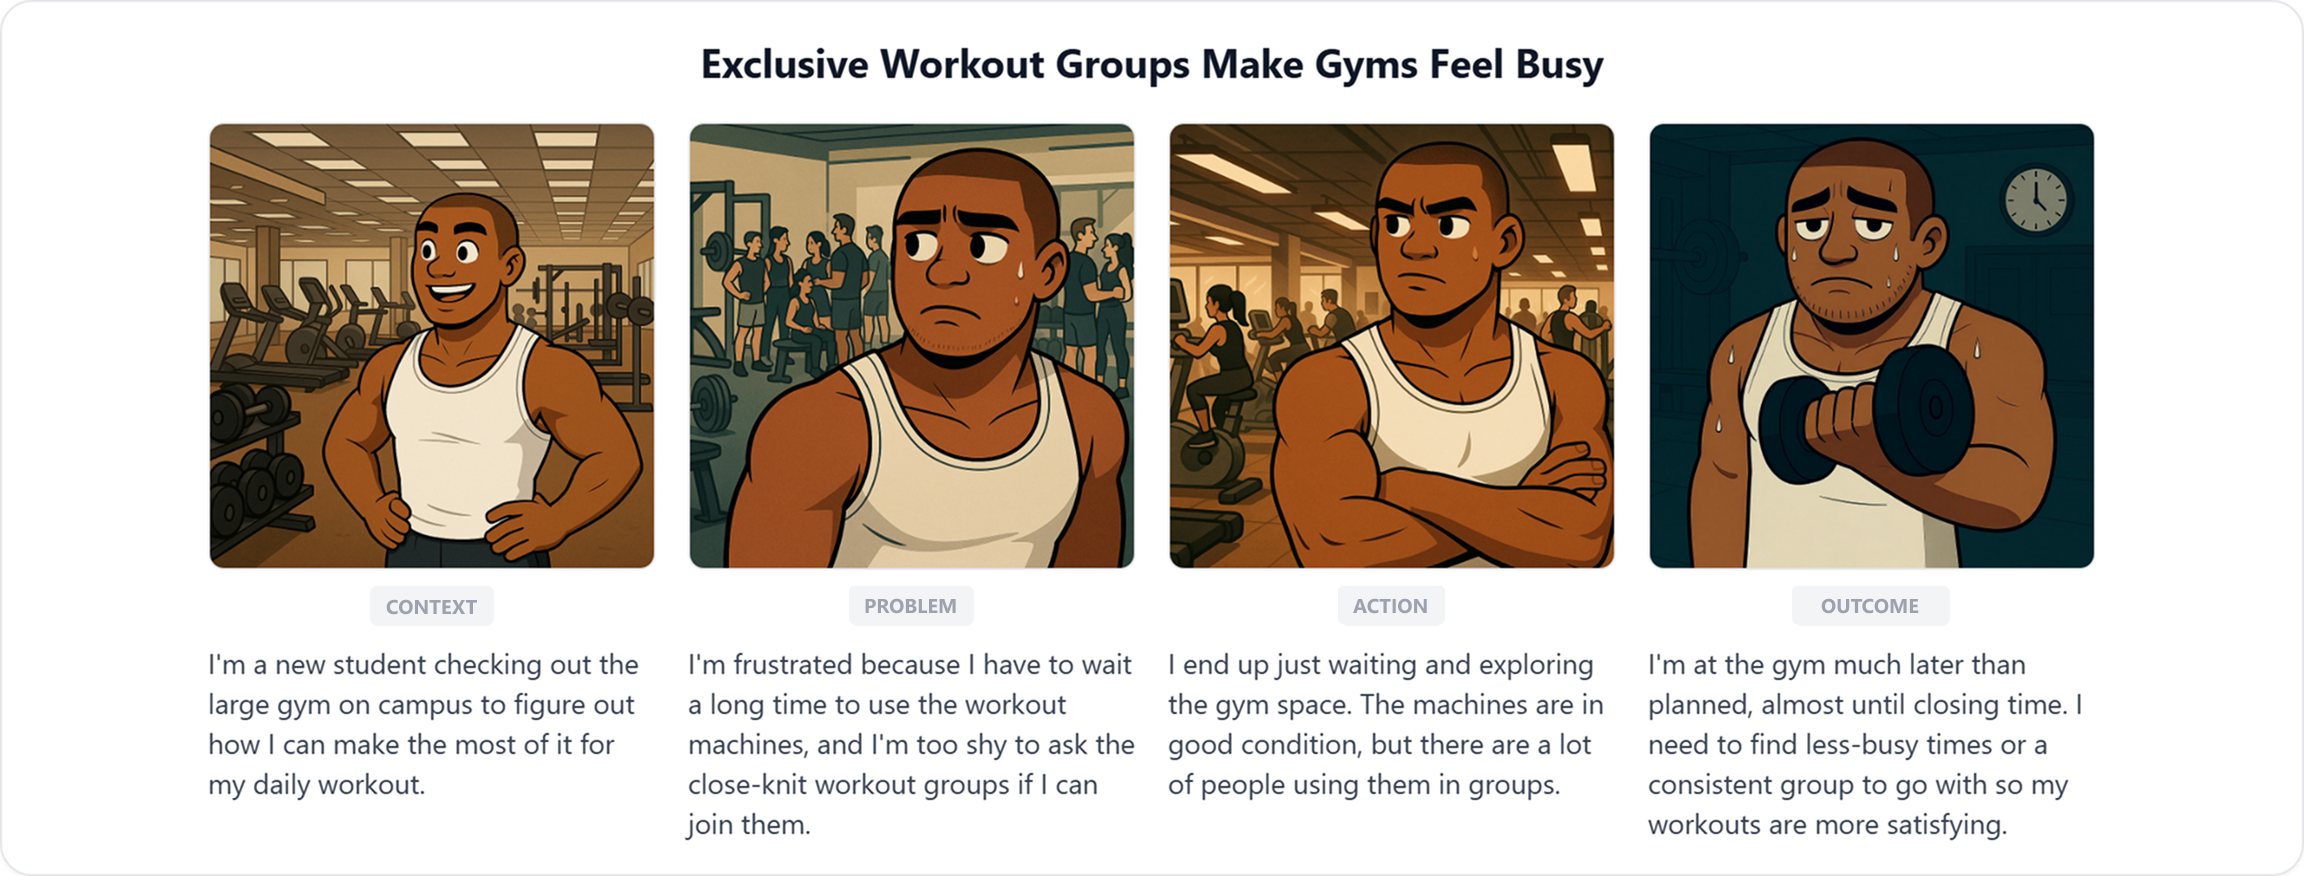
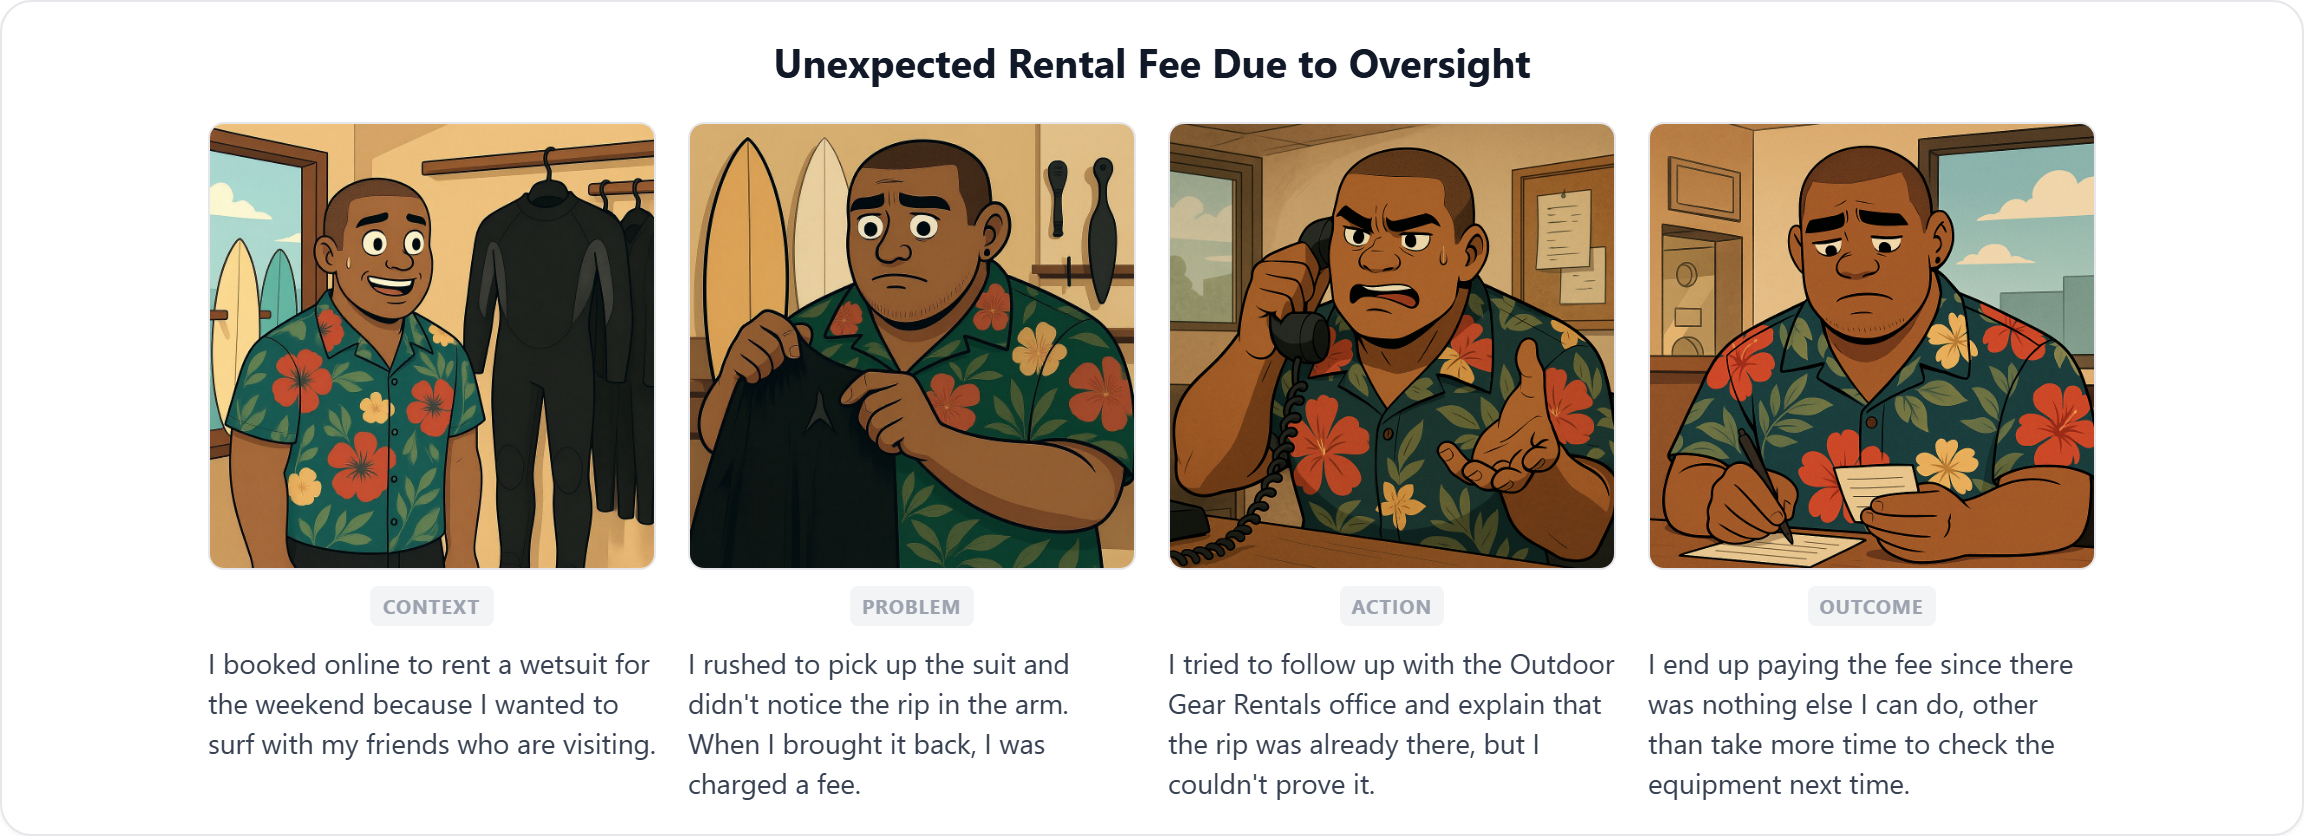
changed examples, adjusting context copy, removed pre-summary input

diff --git a/src/components/StudyOverviewPage.tsx b/src/components/StudyOverviewPage.tsx
@@ -7,26 +7,23 @@ import { PriorExperienceOption } from './onboarding/PriorExperienceOption';
 import { ENABLE_ADMIN_SETUP } from '@/lib/featureFlags';
 
 type StudyOverviewPageProps = {
-  showExperienceDescription?: boolean;
+  flow?: 'user' | 'designer';
 };
 
 export function StudyOverviewPage({
-  showExperienceDescription = true
+  flow = 'user'
 }: StudyOverviewPageProps) {
   const designTopic = useStore((s) => s.designTopic);
   const priorExperience = useStore((s) => s.priorExperience);
   const setPriorExperience = useStore((s) => s.setPriorExperience);
-  const experienceDescription = useStore((s) => s.experienceDescription);
-  const setExperienceDescription = useStore((s) => s.setExperienceDescription);
   const setHasCompletedOverview = useStore((s) => s.setHasCompletedOverview);
   const setAdminSetupOpen = useStore((s) => s.setAdminSetupOpen);
 
   const copy = STUDY_OVERVIEW_COPY;
   const topicLabel =
     designTopic?.trim() || copy.topic.defaultTopic;
-  const canContinue =
-    priorExperience !== null &&
-    (!showExperienceDescription || experienceDescription.trim().length > 0);
+  const canContinue = priorExperience !== null;
+  const postParagraphs = copy.intro.post_paragraphs[flow];
 
   const handleContinue = () => {
     if (!canContinue) return;
@@ -35,8 +32,7 @@ export function StudyOverviewPage({
       type: 'STUDY_OVERVIEW_COMPLETE',
       count: 1,
       data: {
-        priorExperience,
-        experienceDescription: experienceDescription.trim()
+        priorExperience
       }
     });
     setHasCompletedOverview(true);
@@ -84,14 +80,14 @@ export function StudyOverviewPage({
 
           <div className="mt-5">
             <img
-              src={`${import.meta.env.BASE_URL}storyboards/example/example_storyboard_1.jpg`}
+              src={`${import.meta.env.BASE_URL}storyboards/example/example_storyboard.jpg`}
               alt="Example storyboard with context, problem, action, and outcome panels"
               className="w-full rounded-2xl ring-1 ring-slate-200/60"
             />
           </div>
 
           <div className="mt-10 space-y-3">
-            {copy.intro.post_paragraphs.map((paragraph) => (
+            {postParagraphs.map((paragraph) => (
               <p
                 key={paragraph}
                 className="leading-relaxed"
@@ -134,28 +130,6 @@ export function StudyOverviewPage({
             </div>
           </fieldset>
 
-          {showExperienceDescription && (
-            <div className="mt-6">
-              <label
-                htmlFor="study-overview-experience-description"
-                className="block text-base font-semibold text-slate-900 mb-2"
-              >
-                {copy.experienceDescription.label}
-                <span className="text-blue-600 ml-1" aria-hidden>
-                  *
-                </span>
-              </label>
-              <textarea
-                id="study-overview-experience-description"
-                value={experienceDescription}
-                onChange={(e) => setExperienceDescription(e.target.value)}
-                placeholder={copy.experienceDescription.placeholder}
-                rows={4}
-                className="w-full px-4 py-3 border border-gray-300 rounded-xl focus:ring-2 focus:ring-blue-500 focus:border-transparent outline-none resize-y text-sm"
-              />
-            </div>
-          )}
-
           <button
             type="button"
             onClick={handleContinue}
@@ -166,11 +140,7 @@ export function StudyOverviewPage({
           </button>
           {!canContinue && (
             <p className="mt-3 text-center text-xs text-slate-500">
-              {priorExperience === null
-                ? showExperienceDescription
-                  ? copy.continueDisabledHint
-                  : copy.continueDisabledHintAnswerOnly
-                : copy.experienceDescription.requiredHint}
+              {copy.continueDisabledHint}
             </p>
           )}
 

diff --git a/src/components/DesignerFlow.tsx b/src/components/DesignerFlow.tsx
@@ -4,7 +4,6 @@ import type { DesignerStoryboard } from '@/data/designerStoryboards';
 import type { FrameOutline } from '@/types';
 import { StudyOverviewPage } from './StudyOverviewPage';
 import { DesignerVariantPicker } from './DesignerVariantPicker';
-import { DesignerScenarioDescriptionPage } from './DesignerScenarioDescriptionPage';
 import { DesignerStoryboardResponsePage } from './DesignerStoryboardResponsePage';
 import { PostStoryboardSurveyPage } from './PostStoryboardSurveyPage';
 import { EnlargeableStoryboardImage } from './EnlargeableStoryboardImage';
@@ -14,7 +13,7 @@ import {
   getDesignerFrameResponseQuestions
 } from '@/types/designerResponseQuestionnaire';
 
-type DesignerPhase = 'select' | 'describe' | 'respond' | 'survey';
+type DesignerPhase = 'select' | 'respond' | 'survey';
 
 type DesignerFlowProps = {
   onStartOver: () => void;
@@ -60,8 +59,6 @@ function StoryboardPreview({
 export function DesignerFlow({ onStartOver }: DesignerFlowProps) {
   const hasCompletedOverview = useStore((s) => s.hasCompletedOverview);
   const addStudyEvent = useStore((s) => s.addStudyEvent);
-  const experienceDescription = useStore((s) => s.experienceDescription);
-  const setExperienceDescription = useStore((s) => s.setExperienceDescription);
   const selectedStoryboard = useStore((s) =>
     s.designerSelectedVariantId
       ? s
@@ -99,7 +96,7 @@ export function DesignerFlow({ onStartOver }: DesignerFlowProps) {
 
     setRespondFrameIndex(0);
     setAnswers({});
-    setPhase('describe');
+    setPhase('respond');
   };
 
   const handleFrameContinue = (frameAnswers: Record<string, string>) => {
@@ -120,19 +117,8 @@ export function DesignerFlow({ onStartOver }: DesignerFlowProps) {
     setRespondFrameIndex((prev) => prev + 1);
   };
 
-  const handleDescribeContinue = (description: string) => {
-    setExperienceDescription(description);
-    addStudyEvent({
-      initiator: 'user',
-      type: 'DESIGNER_SCENARIO_DESCRIBED',
-      count: 1,
-      data: { experienceDescription: description }
-    });
-    setPhase('respond');
-  };
-
   if (!hasCompletedOverview) {
-    return <StudyOverviewPage showExperienceDescription={false} />;
+    return <StudyOverviewPage flow="designer" />;
   }
 
   const startOverButton = (
@@ -152,19 +138,6 @@ export function DesignerFlow({ onStartOver }: DesignerFlowProps) {
         <div className="fixed inset-0 bg-gray-50 z-50 overflow-y-auto">
           <DesignerVariantPicker onPick={handlePick} />
         </div>
-        {startOverButton}
-      </>
-    );
-  }
-
-  if (phase === 'describe') {
-    return (
-      <>
-        <DesignerScenarioDescriptionPage
-          storyboardPreview={<StoryboardPreview storyboard={selectedStoryboard} />}
-          initialDescription={experienceDescription}
-          onContinue={handleDescribeContinue}
-        />
         {startOverButton}
       </>
     );

diff --git a/src/components/DesignerContentPhase.tsx b/src/components/DesignerContentPhase.tsx
@@ -49,10 +49,10 @@ function resolveQuestions(
 }
 
 export const DEFAULT_CONTENT_SUBTITLES: Record<FrameOutline['frameType'], string> = {
-  Context: 'Set the scene...',
-  Problem: 'What went wrong...',
-  Action: 'What you tried...',
-  Resolution: 'What happened as a result...',
+  Context: 'Set the scene. These responses will be used to create the first storyboard panel.',
+  Problem: 'What went wrong? These responses will be used to create the Problem storyboard panel.',
+  Action: 'What you tried. These responses will be used to create the Action storyboard panel.',
+  Resolution: 'What happened as a result. These responses will be used to create the final storyboard panel.',
 };
 
 export function DesignerContentPhase({

diff --git a/src/content/onboardingCopy.ts b/src/content/onboardingCopy.ts
@@ -53,7 +53,10 @@ export type StudyOverviewCopy = {
   };
   intro: {
     pre_paragraphs: string[];
-    post_paragraphs: string[];
+    post_paragraphs: {
+      user: string[];
+      designer: string[];
+    };
     steps: string[];
   };
   topic: {
@@ -66,14 +69,8 @@ export type StudyOverviewCopy = {
     helper: string;
     options: PriorExperienceOption[];
   };
-  experienceDescription: {
-    label: string;
-    placeholder: string;
-    requiredHint: string;
-  };
   continueButton: string;
   continueDisabledHint: string;
-  continueDisabledHintAnswerOnly: string;
 };
 
 export type CharacterCreationCopy = {
